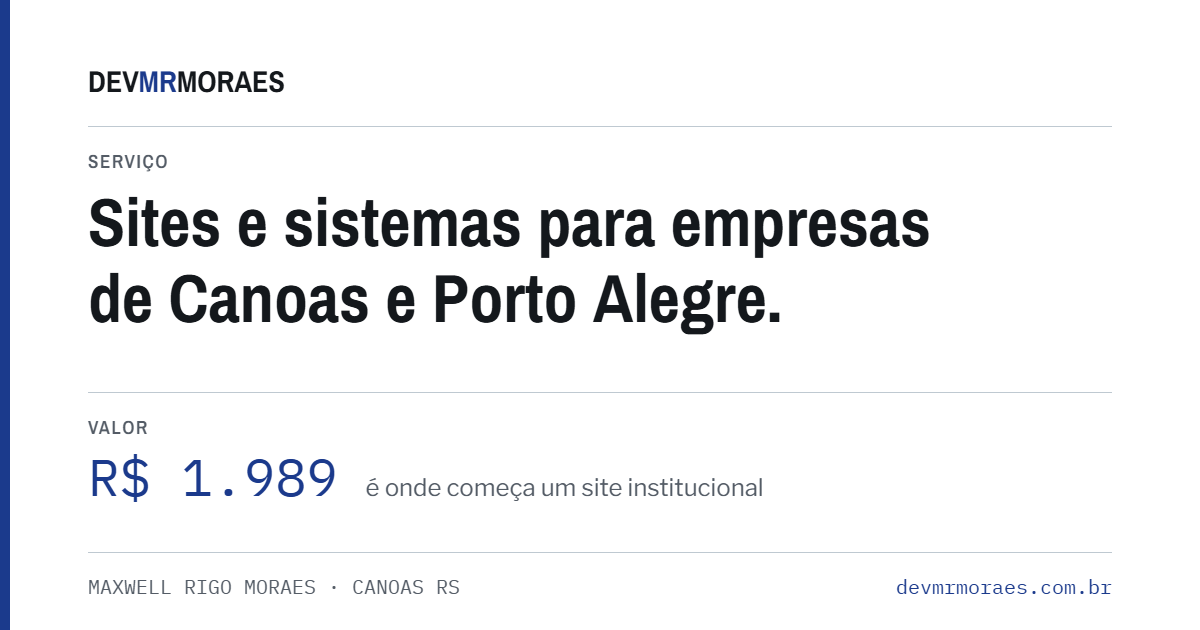
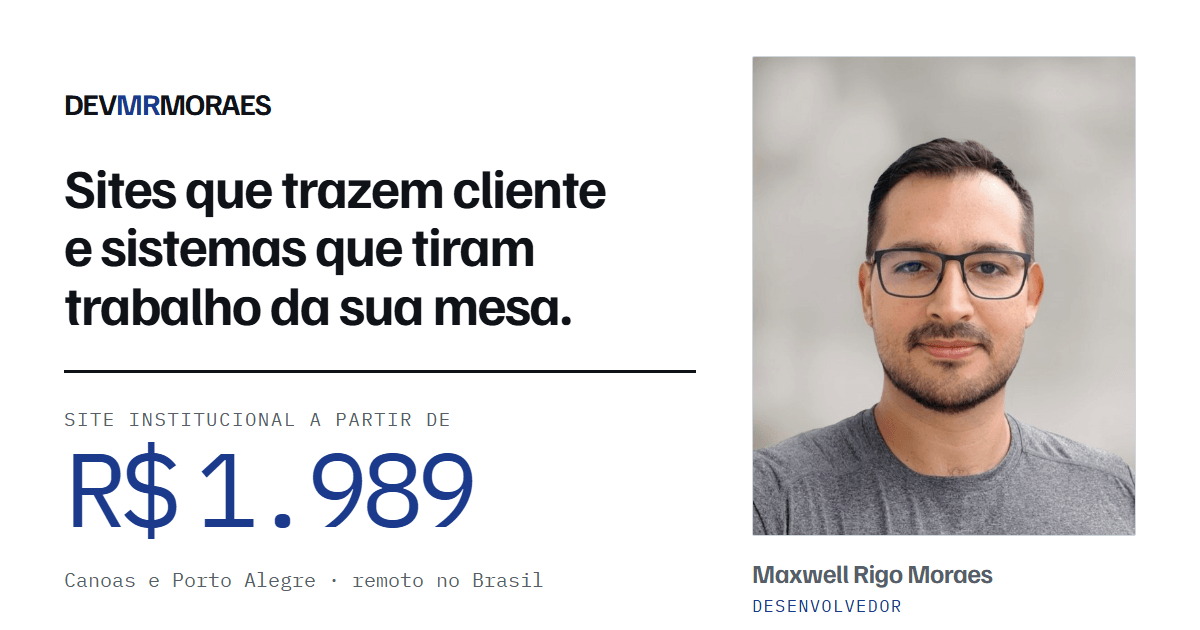
front: card de compartilhamento na direcao O numero
O og-image tinha sido refeito em 02/09 para a direcao Ordem de servico, que durou um
dia. Quem recebesse o link no WhatsApp via um visual que nao existe mais.

O card novo repete a composicao da home no formato deitado: marca, chamada, o fio, o
preco em manchete e o retrato. Em 320px, que e o tamanho do preview no aplicativo,
sobrevivem o rosto, o preco e o nome -- que e o que precisa sobreviver.

Fica em 99.901 B. O PNG cru saia em 245.675 B, e acima de 300 KB o WhatsApp desiste de
mostrar a previa.

tools/og-card.html e o gerador, com os mesmos tokens e as mesmas fontes do site, para
o card ser refeito junto quando a foto nova chegar. Mora em tools/, que o verificar e
o sync-partials ja ignoram.

diff --git a/tools/og-card.html b/tools/og-card.html
@@ -1,0 +1,100 @@
+<!doctype html>
+<html lang="pt-BR">
+<head>
+<meta charset="utf-8" />
+<link rel="stylesheet" href="../css/style.css" />
+<style>
+  /* Peca de compartilhamento, 1200x630. Usa os tokens e as fontes do site, mas com a
+     composicao refeita para o formato deitado: em 300px de largura no WhatsApp, o que
+     precisa sobreviver e o rosto, o preco e o nome da marca. */
+  html, body { margin: 0; }
+  body {
+    width: 1200px;
+    height: 630px;
+    overflow: hidden;
+    display: grid;
+    grid-template-columns: 1fr 384px;
+    gap: 56px;
+    align-items: center;
+    padding: 56px 64px;
+    box-sizing: border-box;
+  }
+  .marca {
+    font-weight: 700;
+    font-size: 30px;
+    letter-spacing: -0.03em;
+    color: var(--grafite);
+  }
+  .marca span { color: var(--caneta); }
+  .chamada {
+    font-size: 55px;
+    font-weight: 700;
+    line-height: 1.06;
+    letter-spacing: -0.03em;
+    margin: 30px 0 0;
+    max-width: 20ch;
+    text-wrap: balance;
+  }
+  .fio { height: 3px; background: var(--grafite); margin: 38px 0 32px; }
+  .rot {
+    font-family: var(--fonte-mono);
+    font-size: 19px;
+    letter-spacing: 0.08em;
+    text-transform: uppercase;
+    color: var(--grafite-2);
+  }
+  .preco {
+    font-family: var(--fonte-mono);
+    font-size: 104px;
+    font-weight: 600;
+    line-height: 0.94;
+    letter-spacing: -0.07em;
+    word-spacing: -0.32em;
+    color: var(--caneta);
+    margin-top: 6px;
+  }
+  .onde {
+    font-family: var(--fonte-mono);
+    font-size: 20px;
+    color: var(--grafite-2);
+    margin-top: 26px;
+  }
+  figure { margin: 0; display: grid; gap: 14px; }
+  figure img {
+    width: 384px;
+    height: 480px;
+    object-fit: cover;
+    object-position: center 18%;
+    border: 1px solid var(--impresso);
+    border-radius: 2px;
+    display: block;
+  }
+  .nome { font-family: var(--fonte); font-size: 26px; font-weight: 700; letter-spacing: -0.02em; line-height: 1.15; }
+  .funcao {
+    font-family: var(--fonte-mono);
+    font-size: 17px;
+    letter-spacing: 0.08em;
+    text-transform: uppercase;
+    color: var(--caneta);
+    margin-top: 4px;
+  }
+</style>
+</head>
+<body>
+  <div>
+    <p class="marca">DEV<span>MR</span>MORAES</p>
+    <p class="chamada">Sites que trazem cliente e sistemas que tiram trabalho da sua mesa.</p>
+    <div class="fio"></div>
+    <p class="rot">Site institucional a partir de</p>
+    <p class="preco">R$ 1.989</p>
+    <p class="onde">Canoas e Porto Alegre · remoto no Brasil</p>
+  </div>
+  <figure>
+    <img src="../img/maxwell-rigo-moraes.jpg" alt="" />
+    <figcaption>
+      <span class="nome">Maxwell Rigo Moraes</span>
+      <span class="funcao" style="display:block">Desenvolvedor</span>
+    </figcaption>
+  </figure>
+</body>
+</html>

diff --git a/DESIGN-SYSTEM.md b/DESIGN-SYSTEM.md
@@ -169,6 +169,21 @@ O arquivo é `img/maxwell-rigo-moraes.webp`, com `img/maxwell-rigo-moraes.jpg` d
 - Evite: camisa com estampa ou listra fina (mói na compressão), fundo com textura forte,
   e qualquer coisa que peça retoque para ficar apresentável.
 
+### O card de compartilhamento
+
+`img/og-image.png` (1200 × 630) é o que aparece quando o link é mandado no WhatsApp.
+Ele é gerado a partir de `tools/og-card.html`, que usa os mesmos tokens e as mesmas
+fontes do site — não é um arquivo de imagem editado à mão.
+
+**Ao trocar a foto, refaça o card.** Sirva o repositório num servidor local, abra
+`tools/og-card.html`, capture em 1200 × 630 sem escala, e comprima com paleta
+(`sharp(...).png({ quality: 90, palette: true })`) — a compressão cai de ~245 KB para
+~100 KB sem diferença visível. **Fique abaixo de 300 KB**: acima disso o WhatsApp
+deixa de mostrar o preview.
+
+O que precisa sobreviver quando o card encolhe para 320 px no aplicativo: o rosto, o
+preço e o nome da marca. O rótulo e a linha de cidade viram textura, e tudo bem.
+
 ---
 
 ## Orçamento
